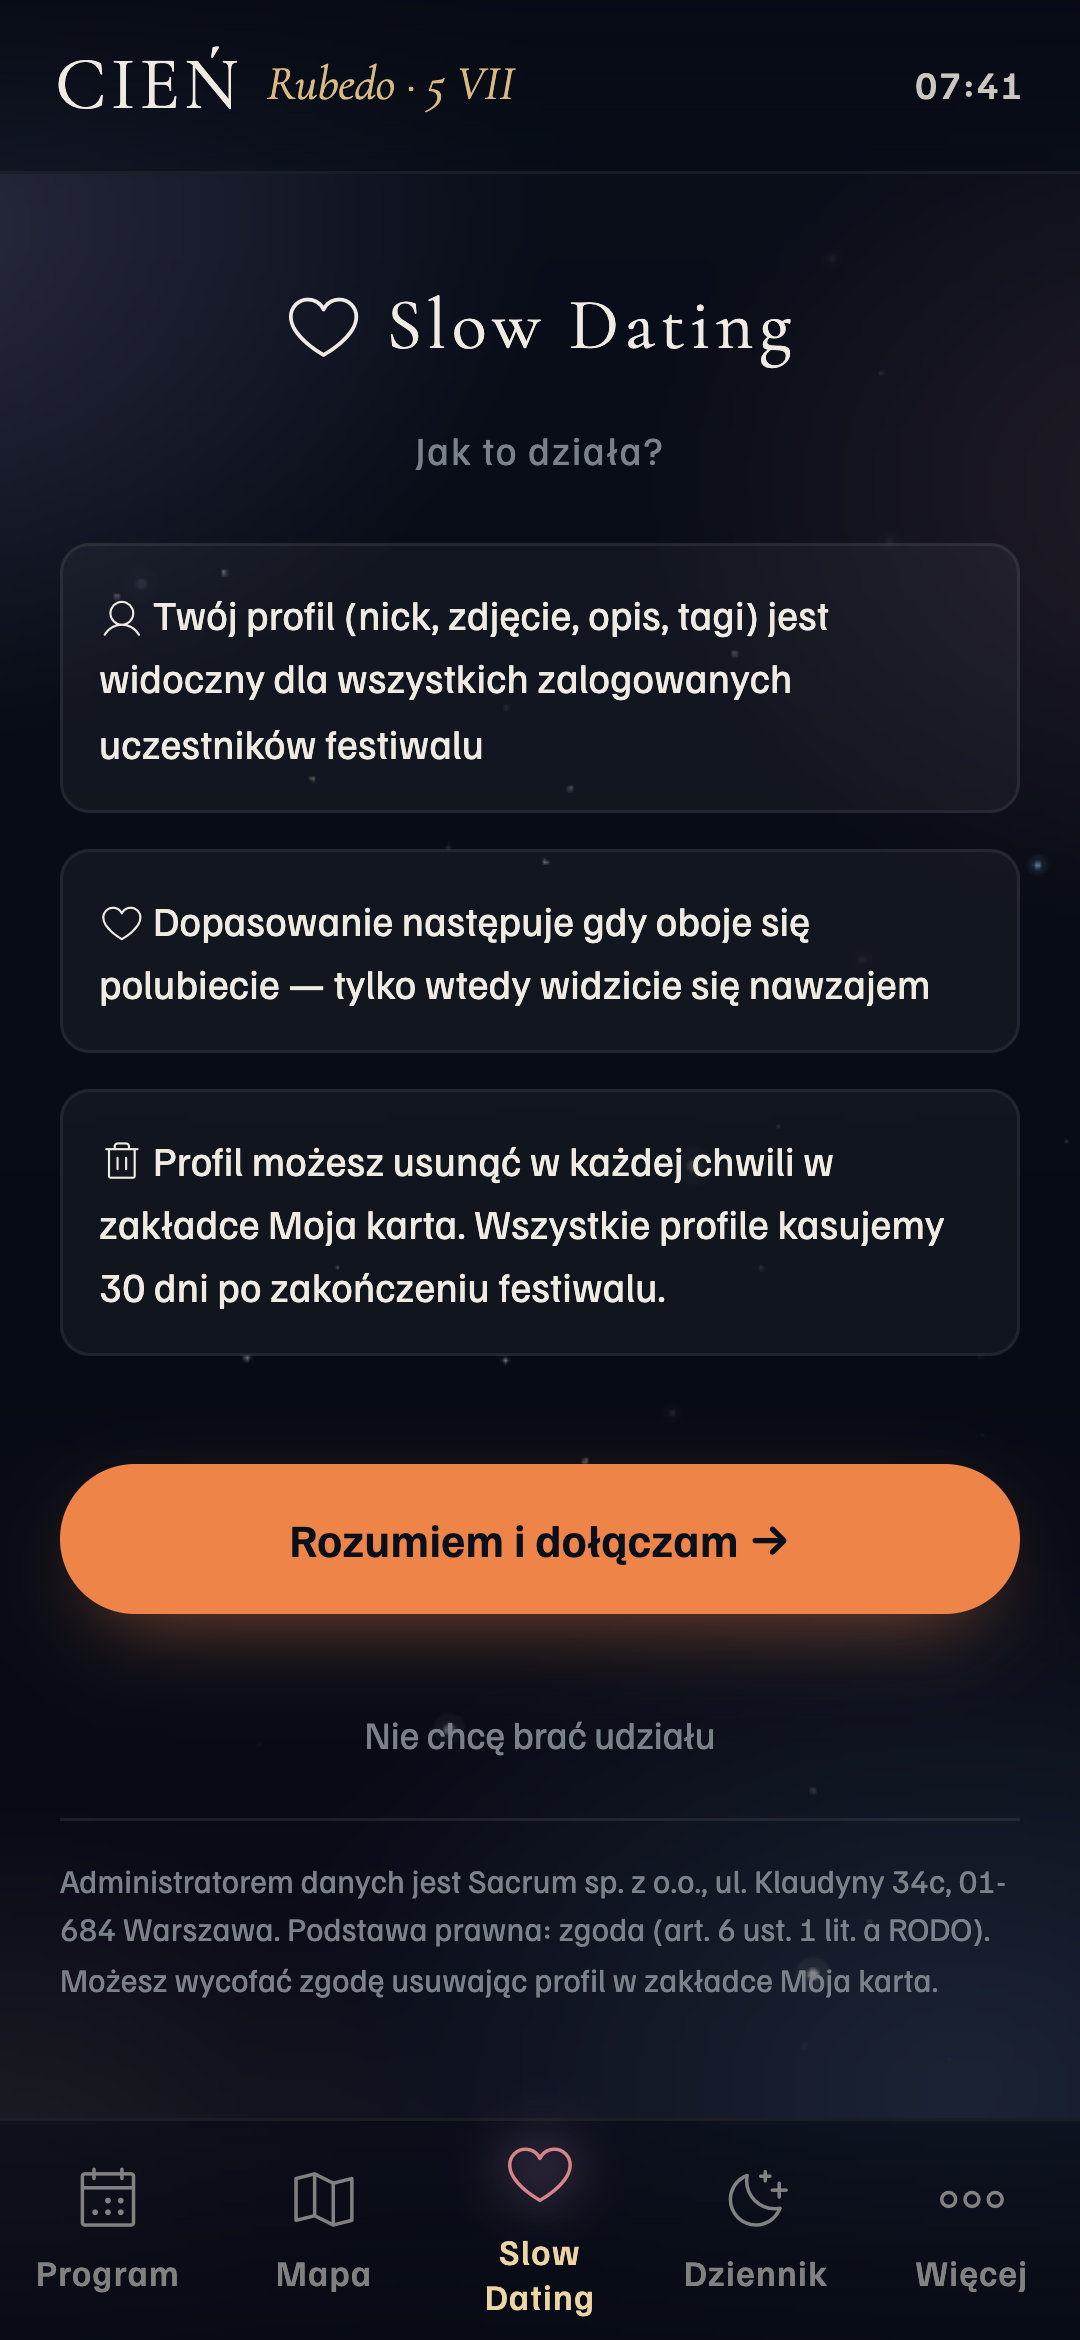
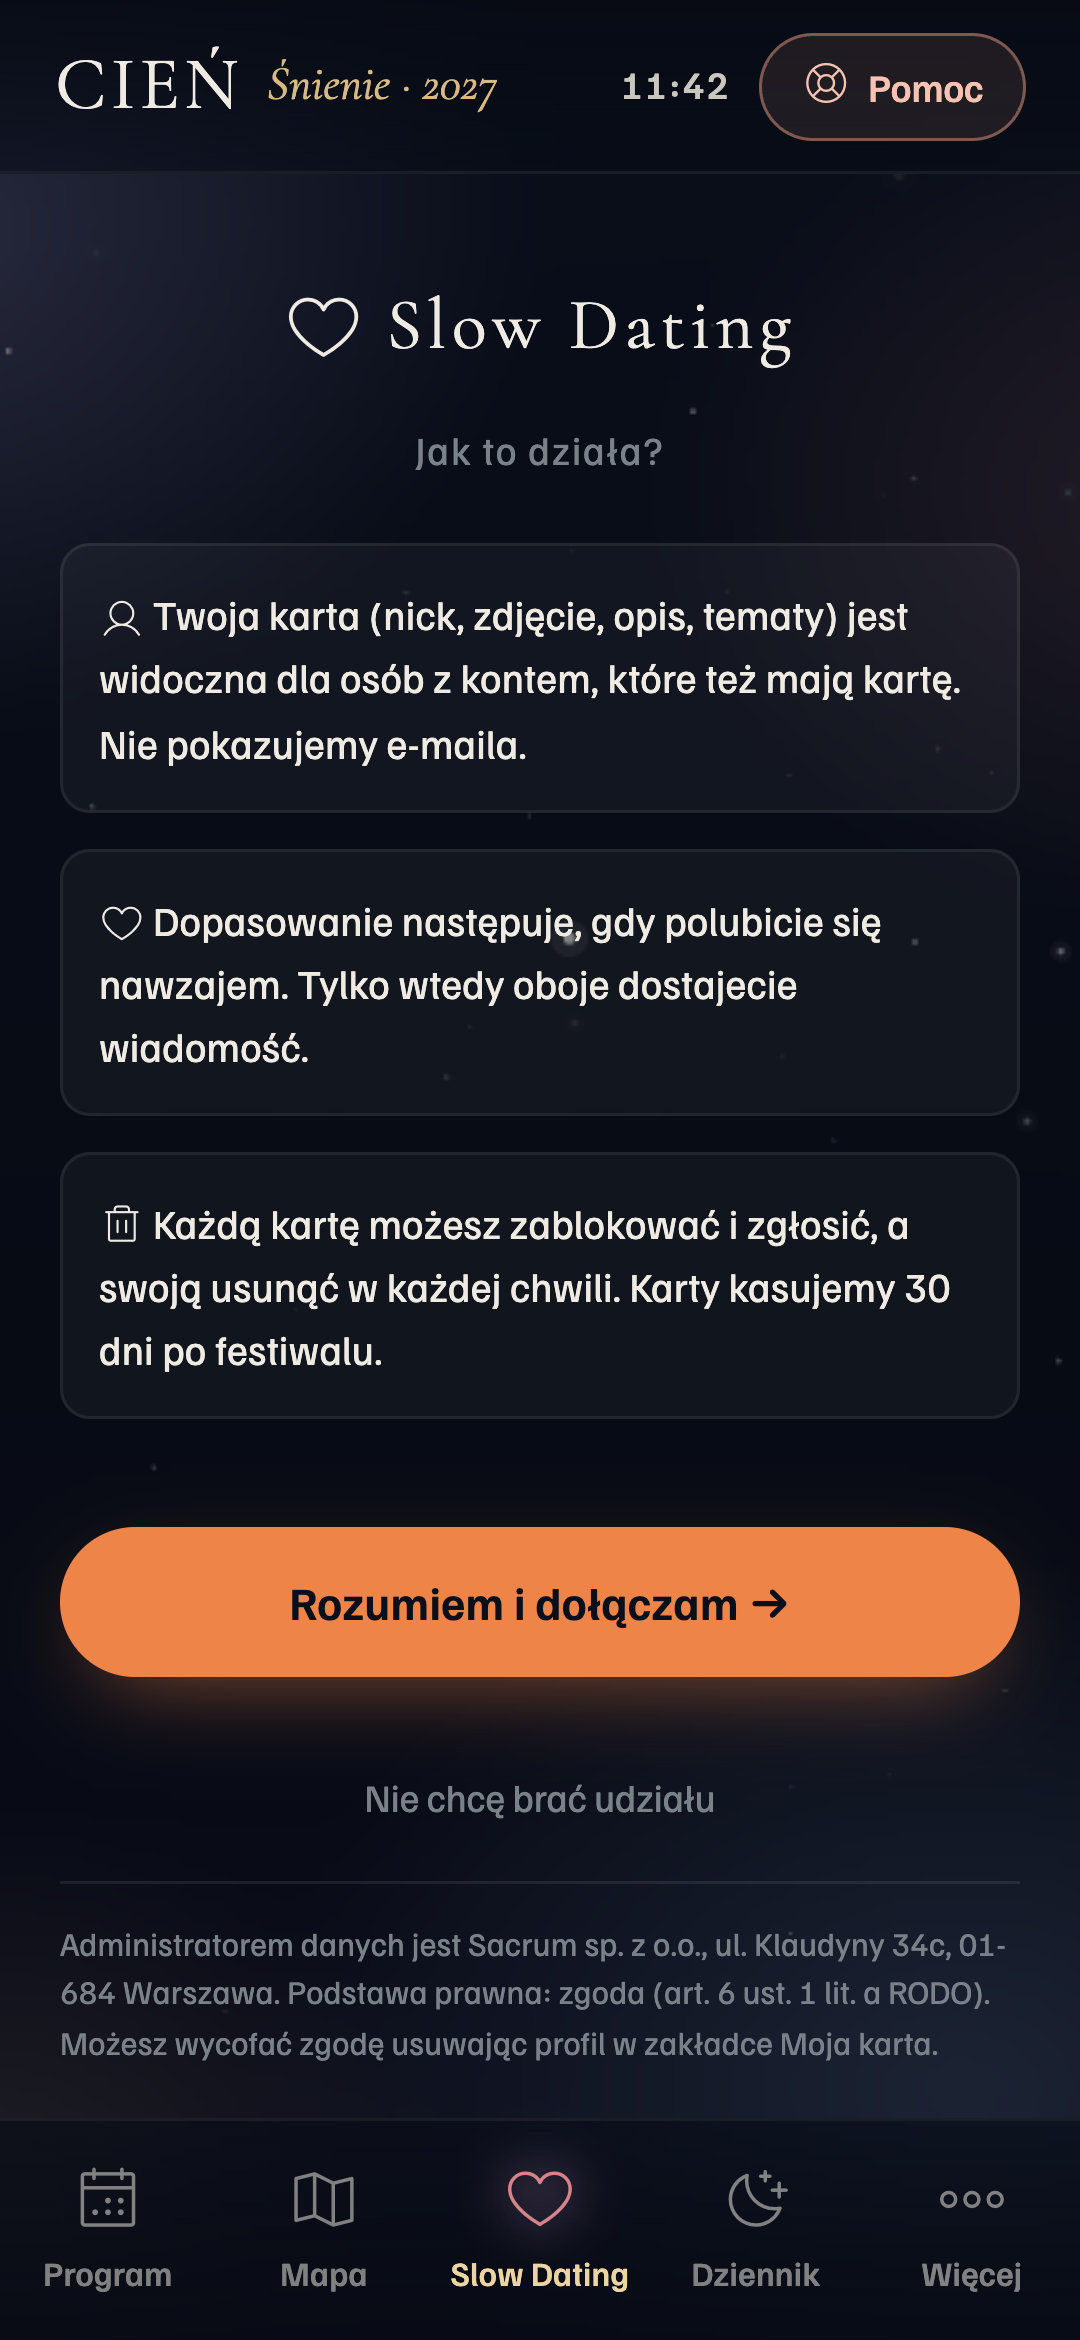
store: zrzuty nowej wersji, stan publikacji po wdrożeniu kont

diff --git a/store/README.md b/store/README.md
@@ -1,6 +1,6 @@
 # Publikacja CIEŃ Festiwal w Google Play i App Store
 
-Stan na 21.10.2026. Appka to PWA (strona instalowana jak aplikacja). Do sklepów trafia jako „opakowanie”:
+Stan na 21.10.2026 (po audycie i wdrożeniu kont, `5a3e3fd`). Appka to PWA (strona instalowana jak aplikacja). Do sklepów trafia jako „opakowanie”:
 na Androida jako Trusted Web Activity (pełny ekran, bez paska przeglądarki), na iPhone'a jako projekt Xcode z WebView.
 
 ## Co jest gotowe (w tym folderze i w kodzie)
@@ -15,19 +15,31 @@ na Androida jako Trusted Web Activity (pełny ekran, bez paska przeglądarki), n
   usuwanie konta razem z danymi na serwerze (wymóg Apple 5.1.1(v) i Google), brak instrukcji „zainstaluj
   przez przeglądarkę” w zainstalowanej wersji, przycisk „Wstecz” na Androidzie zamyka artykuły i okna.
 
+## Gotowe w aplikacji (wdrożone na app.cienfestiwal.com 21.10.2026)
+
+- Prawdziwe konta (PocketBase, e-mail + hasło), reguły dostępu „tylko swoje / tylko moja drużyna”, konto techniczne
+  tylko po stronie serwera (`netlify/functions/api.js`). Gość korzysta z programu, planu, mapy, dziennika i pomocy.
+- Moderacja wymagana przez Apple 1.2 i Google UGC: blokada w obie strony, zgłoszenia w aplikacji, panel organizatora
+  `app.cienfestiwal.com/admin.html` (PIN = `ADMIN_PIN` w Netlify): zgłoszenia, ukrycie karty, zawieszenie konta, ogłoszenia z powiadomieniem.
+- Usuwanie konta w aplikacji i strona `app.cienfestiwal.com/usun-konto` (wymóg Google), nowa polityka prywatności i regulamin
+  (§ 7a zero tolerancji). Zapowiedź CIEŃ 2027 + archiwum 2026, przycisk Pomoc z 112 i 116 123.
+- Zrzuty w `zrzuty/` (6 × Google Play 1080×2340, 6 × App Store 1290×2796) zrobione z tej wersji.
+
+## Dane do recenzji (App Review / Play)
+
+Recenzenci potrzebują konta testowego do Slow Dating i drużyny: załóż je w aplikacji tuż przed wysłaniem
+(np. review@cienfestiwal.com) i wpisz w formularzu sklepu. Opisz w notatce: Slow Dating → flaga na karcie = zgłoś/zablokuj;
+Ustawienia → Usuń konto i dane.
+
 ## Co musi zrobić Piotr (konta i decyzje)
 
-1. **Która edycja?** Appka ma program i daty CIEŃ 2026 (Zamek Świny). Publikacja w sklepach ma sens
-   z treścią 2027 (Pałac w Roztoce, 8–11.07.2027): program, mapa terenu, punkty, daty w `data/*.json`
-   i w `app.js` (`detectFestivalDay`, odliczanie). Bez tego recenzent i użytkownicy zobaczą archiwum.
+1. **Program 2027.** Appka pokazuje zapowiedź 2027 (daty, miejsce, cztery noce ze strony) i archiwalny program 2026.
+   Gdy będzie program, mapa Roztoki i dyżury PsyCare: podmień `data/*.json` (z `festival.year: 2027`), wtedy włączy się „Tu i teraz” i pogoda.
 2. **Konto Google Play Console**: jednorazowo 25 USD. Konto firmowe (Sacrum sp. z o.o.) wymaga numeru
    D-U-N-S, ale omija regułę dla nowych kont prywatnych: **12 testerów przez 14 dni zamkniętych testów**
    przed publikacją produkcyjną.
 3. **Konto Apple Developer Program**: 99 USD rocznie, dla firmy też D-U-N-S.
-4. **Prawdziwe logowanie na serwerze (zalecane przed sklepami).** Dziś konto istnieje tylko na telefonie;
-   baza Slow Dating przyjmuje zapisy i usunięcia od każdego, kto zna jej adres. Przy funkcji randkowej
-   recenzenci Apple (1.2) i Google oczekują kontroli nad treściami. Do zrobienia: konta użytkowników
-   w PocketBase i reguły „tylko właściciel zmienia/usuwa swój rekord”. Wymaga dostępu admina PocketBase.
+4. **Zrobione 21.10:** prawdziwe konta i reguły w PocketBase (konto techniczne: `~/Documents/cien-pb/superuser.txt`).
 5. **Retencja danych 2026.** W bazie nadal jest 171 profili Slow Dating i 3474 polubienia, mimo że ekran
    zgody obiecywał skasowanie 30 dni po festiwalu (5.08.2026). Decyzja: usunąć teraz (zalecane).
 
